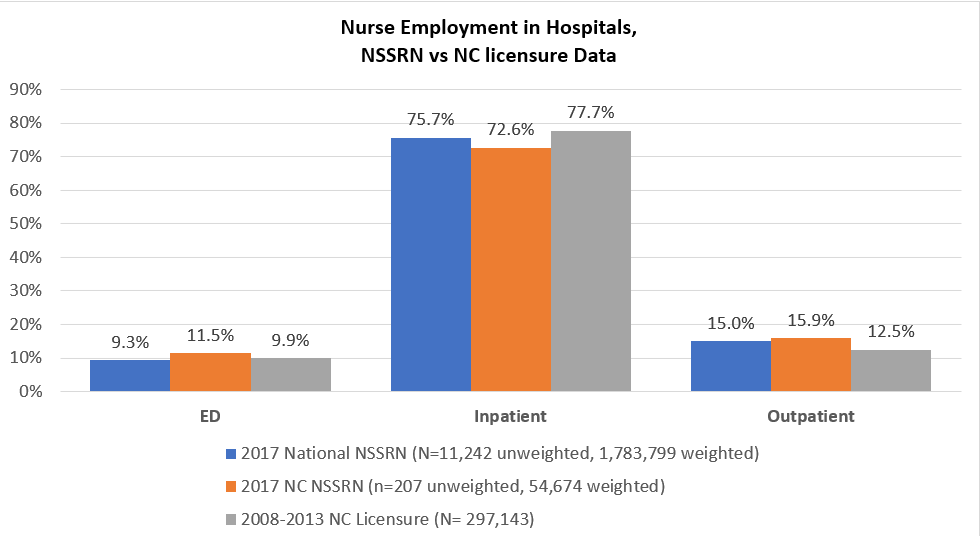
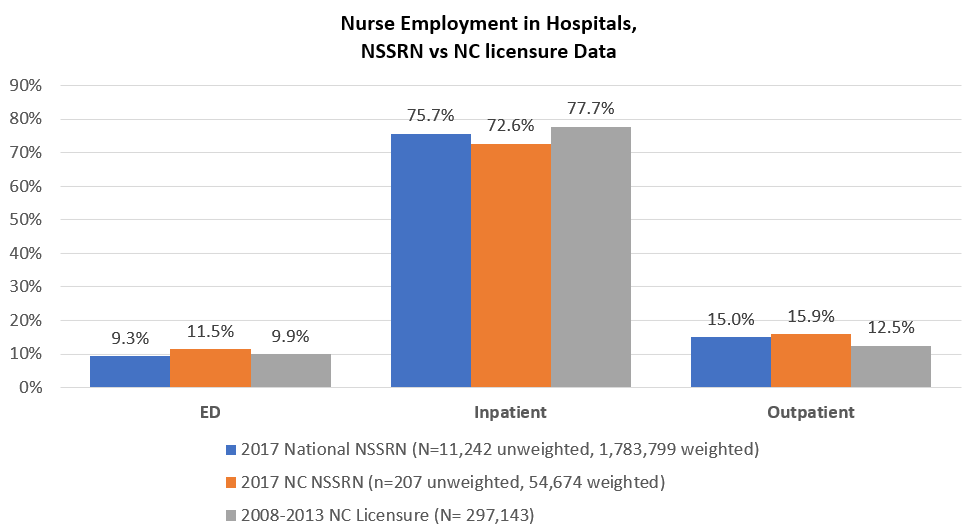
Updated Esita's brief with footnotes and change photo to not have grey lines on outside.

diff --git a/content/briefs/NSSRN_hospital_setting.md b/content/briefs/NSSRN_hospital_setting.md
@@ -17,14 +17,14 @@ aliases:
 *  Due to the sampling methodology of the NSSRN data, there may be error introduced when generating estimates for smaller sub-samples in individual states. However, after weighting data for the NC sub-sample of nurses from the NSSRN, the percentages of hospital nurses working in ED, inpatient, and outpatient settings were similar to the perlookcent of nurses working in these settings in NC licensure data.{{< /takeaway >}}
 
 # Introduction
-Hospitals are the most common employers of registered nurses (RNs). Within a hospital, RNs can work in emergency departments (EDs), inpatient settings, and outpatient settings.1 RNs have different roles and provide different types of services in each of these settings. Each setting has different RN-to-patient staffing ratios, reflecting the different levels of patient acuity. Assessing whether the future supply of nurses will be adequate to meet demand requires examining each of these settings separately. Data from the National Sample Survey of Registered Nurses (NSSRN) are often used by state and federal health workforce researchers to assess workforce trends and the capacity of the nursing workforce to meet demand.  In turn, these analyses drive decisions about the training, regulation, and deployment of RNs.
+Hospitals are the most common employers of registered nurses (RNs). Within a hospital, RNs can work in emergency departments (EDs), inpatient settings, and outpatient settings.[1] RNs have different roles and provide different types of services in each of these settings. Each setting has different RN-to-patient staffing ratios, reflecting the different levels of patient acuity. Assessing whether the future supply of nurses will be adequate to meet demand requires examining each of these settings separately. Data from the National Sample Survey of Registered Nurses (NSSRN) are often used by state and federal health workforce researchers to assess workforce trends and the capacity of the nursing workforce to meet demand.  In turn, these analyses drive decisions about the training, regulation, and deployment of RNs.
 
 To assess if the North Carolina (NC) and national workforce are similar in terms of hospital employment settings, we analyzed NSSRN data to determine the number and percentage of nurses working in ED, inpatient, and outpatient hospital settings nationally versus in North Carolina (NC). Furthermore, we compared the NSSRN estimates to estimates generated from a dataset representing the complete census of NC nurses.
 
-The NSSRN is administered by the National Center for Health Workforce Analysis in the Health Resources Service and Services Administration agency of the U.S. Department of Health and Human Services. The survey has been administered on a periodic basis since 1977, with the most recent data available for 2018. Data were gathered from a sample of RNs across the United States using a complex sampling design. The NSSRN contains data from RNs in each state, along with sampling weights that can be used in analyses to estimate the demographic, practice and educational characteristics RNs in the U.S.2 Because the NSSRN is a sample of nurses, rather than a complete census, the information collected about nurses in a sub-sample from a single state may not accurately reflect the nursing workforce in that state.3 In NC, where a complete census of  RN data are available through licensure data, we were able to compare NSSRN data to state-level data to assess the degree to which the two data sources aligned.
+The NSSRN is administered by the National Center for Health Workforce Analysis in the Health Resources Service and Services Administration agency of the U.S. Department of Health and Human Services. The survey has been administered on a periodic basis since 1977, with the most recent data available for 2018. Data were gathered from a sample of RNs across the United States using a complex sampling design. The NSSRN contains data from RNs in each state, along with sampling weights that can be used in analyses to estimate the demographic, practice and educational characteristics RNs in the U.S. [2] Because the NSSRN is a sample of nurses, rather than a complete census, the information collected about nurses in a sub-sample from a single state may not accurately reflect the nursing workforce in that state. [3] In NC, where a complete census of  RN data are available through licensure data, we were able to compare NSSRN data to state-level data to assess the degree to which the two data sources aligned.
 
 # Methods
-Licensure data from the NC Health Professions Data System (HPDS) were used to compare hospital nurse settings between the 2018 NSSRN versus the 2008-2013 NC licensure data. NC licensure data after 2013 were not used in our analysis because the NC Board of Nursing changed its data collection forms to stop collecting data on whether nurses in hospitals worked in inpatient versus outpatient settings. The NC HPDS is maintained by the Cecil G. Sheps Center for Health Services Research at the University of North Carolina and contains annual licensure data for all RNs obtained from the NC Board of Nursing.4 These data thus represent a complete census of NC nurses, and hence may offer a more accurate assessment of where nurses work in key hospital areas compared to NSSRN data.
+Licensure data from the NC Health Professions Data System (HPDS) were used to compare hospital nurse settings between the 2018 NSSRN versus the 2008-2013 NC licensure data. NC licensure data after 2013 were not used in our analysis because the NC Board of Nursing changed its data collection forms to stop collecting data on whether nurses in hospitals worked in inpatient versus outpatient settings. The NC HPDS is maintained by the Cecil G. Sheps Center for Health Services Research at the University of North Carolina and contains annual licensure data for all RNs obtained from the NC Board of Nursing. [4] These data thus represent a complete census of NC nurses, and hence may offer a more accurate assessment of where nurses work in key hospital areas compared to NSSRN data.
 
 Hospital RN settings were identified in the NSSRN data using a variable describing nurses’ self-report of their employment setting. Hospital nurses were categorized as working in an ED if they reported their setting as “emergency department,” as outpatient if their setting was reported as “hospital ambulatory care,” and inpatient for all other hospital settings (including critical access hospital, inpatient, hospital ancillary unit, and hospital nursing home unit). State of residence was determined by a variable describing nurse report of residence on 12/31/17. Sampling weights were applied to all estimates generated by the NSSRN data. In the NC licensure data, hospital RN settings were identified by nurses’ reports of hospital inpatient versus hospital outpatient settings. Of nurses who reported working in a hospital inpatient or outpatient setting, ED nurses were identified as those also reporting their specialty as emergency care. Advanced practice registered nurses (Nurse Practitioners, Certified Nurse Midwives and Certified Registered Nurse Anesthetists) were excluded in both datasets.
 
@@ -33,3 +33,8 @@ Hospital RN settings were identified in the NSSRN data using a variable describi
 
 # Conclusions
 The percent of hospital nurses working in ED, inpatient, and outpatient settings in NC in the weighted NSSRN, and the NC sub-sample from the NSSRN, is similar to the percentages of RNs who reported working in these same settings from NC licensure data. These findings suggest that the NC workforce is similar to the national one in terms of hospital employment setting. Additionally, these findings validate the NSSRN sampling approach and supports the use of NSSRN data to understand state-level hospital RN settings in the absence of state-level data.    
+
+1. U.S. Department of Health and Human Ser-vices, Health Resources and Services Administration, National Center for Health Workforce Analysis. 2019. Brief Summary Results from the 2018 National Sample Survey of Registered Nurses, Rockville, Maryland.
+2.	U.S. Department of Health and Human Ser-vices, Health Resources and Services Administration, National Center for Health Workforce Analysis. 2019. Technical Report for the National Sample Survey of Registered Nurses, Rockville, Maryland.
+3.	Spetz, J. (2013). The research and policy importance of nursing sample surveys and minimum data sets. Policy, Politics, & Nursing Practice, 14(1), 33-40.
+4.	“North Carolina Health Professional Supply Data.” [Sheps Health Workforce NC](https://nchealthworkforce.unc.edu/supply/).
